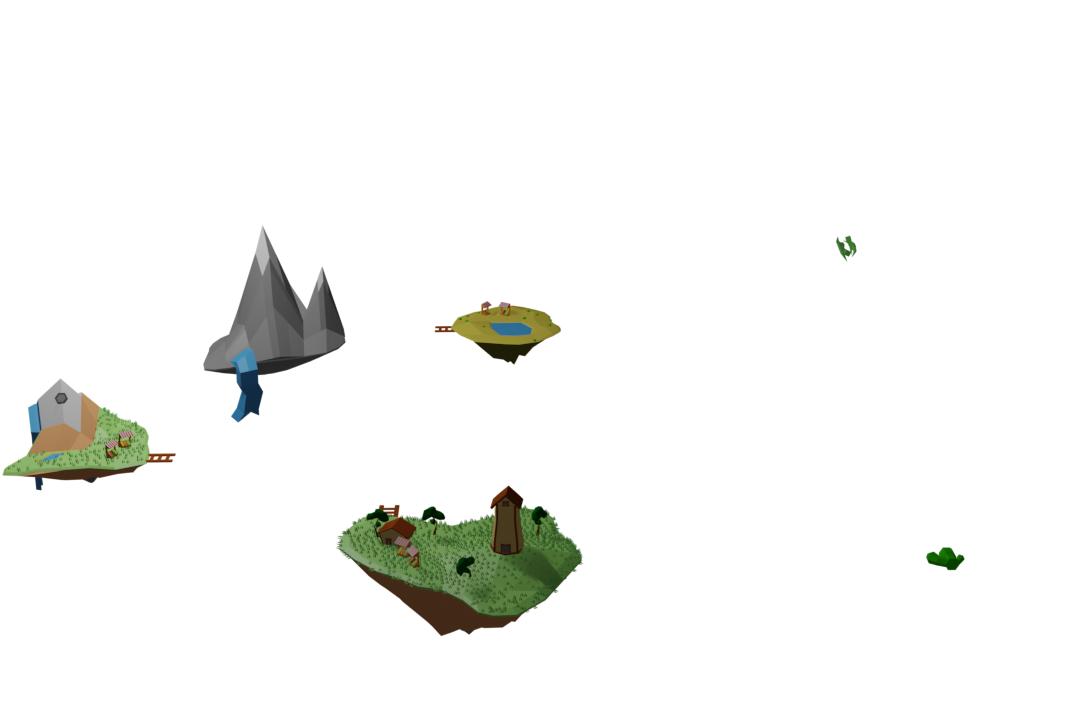
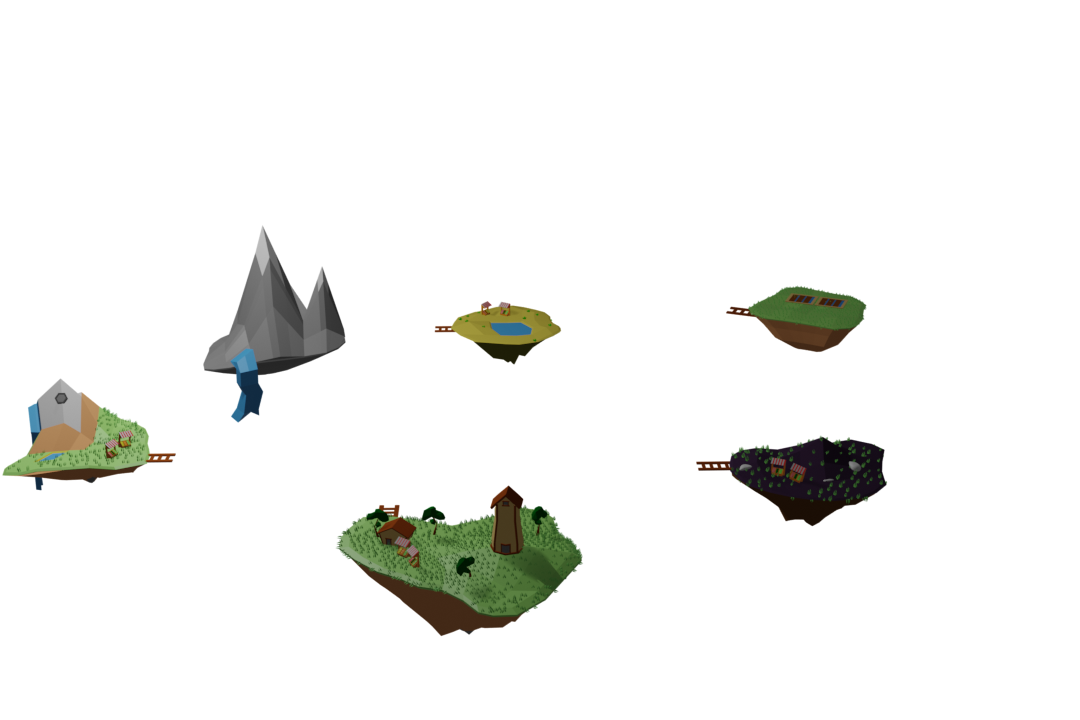
island and paths complete

diff --git a/Buckaneer/src/main/Path.java b/Buckaneer/src/main/Path.java
@@ -5,12 +5,27 @@ import java.util.Arrays;
 import java.util.Collections;
 
 public class Path {
-	private static int[] pathDataX01 = new int[] { 1, 1, 1, 1, 1, 1, 1, 1, 1, 1, 1, 1, 1, 1, 1, 1, 1, 1, 1, 1, 1, 1, 1, 1, 1, 1, 1, 1, 1, 1, 1, 1, 1, 1, 1, 1, 1, 1, 1, 1, 1, 1, 1, 1, 1, 1, 1, 1, 1, 0, 0, 0, 0, 0, 0, 0, 0, 0, -1, -1, -1, -1, -1, -1, -1, -1, -1, -1, -1, -1, 0, 0, 0, 0, -1, -1, -1, -1, -1, -1, -1, -1, -1, -1, -1, -1, -1, -1, -1, -1, -1, -1, -1, -1, -1, -1, -1, -1, -1, -1, -1, -1, -1, -1, -1, -1, -1, -1, -1, -1, -1, -1, -1, -1, -1, -1, -1, -1, -1, -1, -1, -1, -1, -1, -1, -1, -1, -1, -1, -1, -1, -1, -1, -1, -1, -1, -1, -1, -1, -1, 0, 0, 0, 0, 0, 0, 0, 0, 0, 0, -1, -1, -1, -1, 0, 0, 0, 0, 0, 0, 0, 0, 0, 0, 0, 0, 0, 0, 0, 0, 1, 0, 0, 0, 0, 0, 0, 0, 0, 0, 0, 0, 0, 0, 0, 0, 0, 0, 0, 0, 1, 1, 1, 1, 1, 0, 0, 0, 0, 0, 0, 0, 0, 0, 0, 0, 1, 1, 1, 1, 1, 1, 1, 1, 1, 1, 1, 1, 1, 0, 0, 0, 0, 0, 0, 1, 1, 1, 1, 1, 1, 1, 1, 1, 1, 1, 1, 0, 0, 0, 0, 0, 0, 0, 0, 0, 1, 1, 1, 1, 1, 1, 1, 1, 1, 1, 0, 0, 0, 0, 0, 0, 0, 0, 0, 0, 0, 1, 1, 1, 0, 0, 0, 0, 0, 0, 0, 0, 0, 0, 0, 0, 0, 0, 1, 0, 0, 0, 0, 0, 0, 0, 0, 0, 0, 0, 0, 0, 0, 0, -1, -1, -1, -1, 0, 0, 0, 0, 0, 0, 0, 0, 0, 0, 0, 0, 0, 0, 0, 0, 0, 0, 0, 0, 0, 0, 0, 0, 0, 0, 0, 0, 0, 0, 0, 0, 0, -1, 0, 0, 0, 0, 0, 0, 0, 0, 0, 0, 0, 0, 0, 0, 0, 0, 0, 0, 0, 0, 0, 0, 1, 1, 1, 1, 1, 1, 1, 1, 1, 1, 1, 1, 1, 1, 1, 1, 1, 1, 1, 1, 1, 1, 1, 1, 1, 1, 1, 1, 1, 1, 1, 1, 1, 1, 1, 1, 1, 1, 1, 1, 1, 1, 1, 1, 1, 1, 1, 1, 1, 1, 1, 1, 1, 1, 1, 1, 1, 1, 1, 1, 1, 1, 1, 1, 1, 1, 1, 1, 1, 1, 1, 1, 1, 1, 1, 1, 1, 1, 1, 1, 1, 1, 1, 1, 1, 1, 1, 1, 1, 1, 1, 1, 1, 1, 1, 1, 1, 1, 1, 1, 1, 1, 0, 0, 0, 0, 0, 0, 0, 0, 1, 1, 1, 1, 1, 1, 1, 1, 1, 1, 1, 1, 1, 1, 1, 1, 1, 1, 1, 1, 1, 1, 1, 1, 1, 1, 1, 1, 1, 1, 1, 1, 1, 1, 1, 1, 1, 1, 1, 1, 1, 1, 1, 1, 1, 1, 1, 1, 1, 1, 1, 1, 1, 1, 1, 1, 1, 1, 1, 1, 1, 1, 1, 1, 1, 1, 1, 1, 1, 1, 1, 1, 1, 1, 1, 1, 1, 1, 1, 1, 1, 1, 1, 1, 1, 1, 1, 1, 1, 1, 1, 1, 1, 1, 1, 1, 1, 1, 1, 1, 1, 1, 1, 1, 1, 1, 1, 1, 1, 1, 0, 0, 0, 0, -1, -1, -1, -1, 0, 0, 0, 0, 0, 0, 0, 0, 0, 0, 0, 0, 0, 0, -1, -1, -1, 0, 0, 0, 0, 0, 0, 0, 0, 0, 0, 0, 0, 0, 0, 0, 0, 0, 1, 1, 1, 1, 1, 1, 1, 1, 1, 1, 1, 1, 1, 1, 1, 1, 1, 1, 1, 1, 1, 0, 0, 0, 0, 0, 0, 0, 0, 0, 0, 0, 0, 0, 0, 0, 0, 0, 1, 1, 1, 1, 1, 1, 1, 1, 1, 1, 1, 1, 1, 1, 1, 1, 1, 1, 1, 1 };
-	private static int[] pathDataY01 = new int[] { 1, 1, 1, 0, 0, 0, 0, 0, 0, 0, 0, 0, 0, 0, 0, 0, 0, 0, 0, 1, 0, 0, 0, 0, 0, 0, 0, 0, 0, 0, 0, 0, 0, 0, 0, 0, -1, -1, -1, -1, -1, -1, -1, -1, -1, -1, -1, -1, -1, -1, -1, -1, -1, -1, -1, -1, -1, -1, -1, -1, -1, -1, -1, -1, -1, -1, -1, -1, -1, -1, -1, -1, -1, -1, -1, 0, 0, 0, 0, 0, 0, 0, 0, 0, 0, 0, 0, 0, 0, 0, 0, 0, 0, 0, 1, 0, 0, 0, 0, 0, 0, 0, 0, 0, 0, 0, 0, 0, 0, 0, 0, -1, -1, -1, -1, -1, -1, -1, -1, -1, -1, -1, -1, 0, 0, 0, 0, 0, 0, 0, 0, 0, 0, -1, -1, -1, -1, -1, -1, -1, -1, -1, -1, -1, -1, -1, -1, -1, -1, -1, -1, -1, -1, -1, -1, -1, -1, -1, -1, -1, -1, -1, -1, -1, -1, -1, -1, -1, -1, -1, -1, -1, -1, -1, -1, -1, -1, -1, -1, -1, -1, -1, -1, -1, -1, -1, -1, -1, -1, -1, -1, -1, -1, -1, -1, -1, -1, -1, -1, -1, -1, -1, -1, -1, -1, -1, -1, -1, -1, -1, -1, -1, -1, -1, -1, -1, -1, -1, -1, -1, -1, -1, -1, -1, -1, -1, -1, -1, -1, -1, -1, -1, -1, -1, -1, -1, -1, -1, -1, -1, -1, -1, -1, -1, -1, -1, -1, -1, -1, -1, -1, -1, -1, -1, -1, -1, -1, -1, -1, -1, -1, -1, -1, -1, -1, -1, -1, -1, -1, -1, -1, -1, -1, -1, -1, -1, -1, -1, -1, -1, -1, -1, -1, -1, -1, -1, -1, -1, -1, -1, -1, -1, -1, -1, -1, -1, -1, -1, -1, -1, -1, -1, -1, -1, -1, -1, -1, -1, -1, -1, -1, -1, -1, -1, -1, -1, -1, -1, -1, -1, -1, -1, -1, -1, -1, -1, -1, -1, -1, -1, -1, -1, -1, -1, -1, -1, -1, -1, -1, -1, -1, -1, -1, -1, -1, -1, -1, -1, -1, -1, -1, -1, -1, -1, -1, -1, -1, -1, -1, -1, -1, -1, -1, -1, -1, -1, -1, -1, -1, -1, -1, -1, -1, 0, 0, 0, 0, 0, 0, -1, -1, 0, 0, 0, 0, 0, 0, 0, 0, 0, 0, 0, 0, 0, 0, 0, 1, 0, 0, 0, 0, 0, 0, 0, 0, 0, 0, 0, 0, 0, 0, 0, 0, 0, 0, 0, 1, 1, 1, 1, 1, 1, 1, 1, 1, 1, 1, 1, 1, 1, 1, 1, 1, 1, 1, 1, 1, 1, 1, 1, 1, 1, 1, 1, 1, 1, 1, 1, 1, 1, 1, 1, 0, 0, 1, 1, 1, 1, 1, 1, 1, 1, 1, 1, 1, 1, 1, 1, 1, 1, 1, 1, 1, 1, 1, 1, 1, 1, 1, 1, 1, 1, 1, 1, 0, 1, 1, 1, 0, 0, 0, 0, 0, 0, 0, 0, 0, 0, 0, 0, 0, 0, 0, 0, 0, 0, 0, 0, -1, -1, -1, -1, -1, -1, 0, 0, 0, 0, 0, 0, 0, 0, 0, 0, 0, 0, 0, -1, 0, 0, 0, 0, 0, 0, 0, 0, 0, 0, 0, 0, 0, 0, 0, 0, 1, 1, 1, 1, 0, 0, 0, 0, 0, 0, 0, 0, 0, 0, 0, 0, 0, 0, 0, 0, 0, 0, 1, 1, 1, 1, 1, 1, 1, 1, 1, 1, 1, 1, 1, 1, 1, 1, 1, 1, 1, 1, 1, 1, 1, 1, 1, 1, 1, 1, 1, 1, 1, 1, 1, 1, 1, 1, 1, 1, 1, 1, 1, 1, 1, 1, 1, 1, 1, 1, 1, 1, 1, 1, 1, 1, 1, 1, 1, 1, 1, 1, 1, 1, 1, 1, 1, 1, 1, 1, 1, 1, 1, 1, 1, 1, 1, 1, 1, 1, 1, 1, 1, 1, 1, 1, 1, 1, 1, 1, 1, 1, 1, 1, 1, 1, -1, -1, 0, 0, 0, 0, 0, 0, 0, 0, 0, 0, 0, 0, 0, 0, 0, 0, 0, 0 };
-	private static int[] pathDataX12 = new int[] { -1, -1, -1, -1, -1, -1, -1, -1, -1, -1, -1, -1, -1, -1, -1, -1, -1, -1, -1, -1, -1, -1, -1, -1, -1, -1, -1, -1, -1, -1, -1, -1, -1, 0, 0, 0, 0, 0, 0, -1, 0, 0, 0, 0, 0, 0, 0, 0, 0, 0, 0, 0, 0, 0, 0, 0, 0, 0, 1, 1, 1, 0, 0, 0, 0, 0, 0, 0, 0, 0, 0, 0, 0, 0, 0, 0, 0, 0, 0, 0, 0, 0, 0, 0, 0, 0, 0, 0, 0, 0, 0, 0, 0, 0, 0, 0, 0, 0, -1, -1, 0, 0, 0, 0, 0, 0, 0, 0, 0, 0, 0, 0, 0, 0, 0, 0, -1, -1, -1, -1, 0, 0, 0, 0, 0, 0, 0, 0, 0, 0, 0, 0, 0, 0, 0, -1, 0, 0, 0, 0, 0, 0, 0, 0, 0, 0, 0, 0, 0, 0, 0, 0, 0, 0, 0, -1, -1, -1, -1, 0, 0, 0, 0, 0, 0, 0, 0, 0, 0, 0, 0, 0, 0 };
-	private static int[] pathDataY12 = new int[] {1, 1, 1, 1, 1, 1, 1, 1, 0, 0, 0, 0, 0, 0, 0, 0, 0, 0, 0, 0, 0, 1, 1, 1, 1, 1, 1, 1, 1, 1, 1, 1, 1, 1, 1, 1, 1, 1, 1, 1, 1, 1, 1, 1, 1, 1, 1, 1, 1, 1, 1, 1, 1, 1, 1, 1, 1, 1, 1, 1, 1, 1, 1, 1, 1, 1, 1, 1, 1, 1, 1, 1, 1, 1, 1, 1, 1, 1, 1, 1, 1, 1, 1, 1, 1, 1, 1, 1, 1, 1, 1, 1, 1, 1, 1, 1, 1, 1, 1, 1, 1, 1, 1, 1, 1, 1, 1, 1, 1, 1, 1, 1, 1, 1, 1, 1, 1, 1, 1, 1, 1, 1, 1, 1, 1, 1, 1, 1, 1, 1, 1, 1, 1, 1, 1, 1, 1, 1, 1, 1, 1, 1, 1, 1, 1, 1, 1, 1, 1, 1, 1, 1, 1, 1, 1, 1, 1, 1, 1, 1, 1, 1, 1, 1, 1, 1, 1, 1, 1, 1, 1, 1, 1 };
-	private static int[] pathDataX02 = new int[] {1, 1, 1, 1, 1, 1, 1, 1, 1, 1, 1, 1, 1, 1, 1, 1, 1, 1, 1, 1, 1, 1, 1, 1, 1, 1, 1, 1, 1, 1, 1, 1, 1, 1, 1, 1, 1, 1, 1, 1, 1, 1, 1, 1, 1, 1, 1, 1, 1, 1, 1, 1, 1, 1, 1, 1, 1, 1, 1, 1, 1, 1, 1, 1, 1, 1, 1, 1, 1, 1, 1, 1, 1, 1, 1, 1, 1, 1, 1, 1, 1, 1, 1, 1, 1, 1, 1, 1, 1, 1, 1, 1, 1, 1, 1, 1, 1, 1, 1, 1, 1, 1, 1, 1, 1, 1, 1, 1, 1, 1, 1, 1, 1, 1, 1, 1, 1, 1, 1, 1, 1, 1, 1, 1, 1, 1, 1, 1, 1, 1, 1, 1, 1, 1, 1, 1, 1, 1, 1, 1, 1, 1, 1, 1, 1, 1, 1, 1, 1, 1, 1, 1, 1, 1, 1, 1, 1, 1, 1, 1, 1, 1, 1, 1, 1, 1, 1, 1, 1, 1, 1, 1, 1, 1, 1, 1, 1, 1, 1, 1, 1, 1, 1, 1, 1, 1, 1, 1, 1, 1, 1, 1, 1, 1, 1, 1, 1, 1, 1, 1, 1, 0, 0, 0, 0, 0, 0, 0, 0, 1, 1, 1, 1, 1, 1, 1, 1, 1, 1 };
-	private static int[] pathDataY02 = new int[] {-1, -1, 0, 0, 0, 0, 0, 0, 0, 0, 0, 0, 0, 0, 0, 0, 0, 0, 0, 0, 0, 0, 0, 0, 0, 0, 0, 0, 0, 0, 0, 0, 0, 0, 0, 0, 0, 1, 0, 0, 0, 0, 0, 0, 0, 0, 0, 0, 0, 0, 0, 0, 0, 0, 0, 0, 0, 1, 0, 0, 0, 0, 0, 0, 0, 0, 0, 0, 0, 0, 0, 0, 0, 0, 0, 0, 0, 0, 0, 0, 0, 0, 0, 0, 0, 0, 0, 0, 0, 0, 0, 0, 0, 0, -1, -1, -1, -1, 0, 0, 0, 0, 0, 0, 0, 0, 0, 0, 0, 0, 0, 0, 0, 0, -1, 0, 0, 0, 0, 0, 0, 0, 0, 0, 0, 0, 0, 0, 0, 0, 0, 0, 0, 0, -1, -1, -1, 0, 0, 0, 0, 0, 0, 0, 0, 0, 0, 0, 0, 0, 0, 0, 1, 1, 0, 0, 0, 0, 0, 0, 0, 0, 0, 0, 0, 0, 0, 0, 0, 0, 0, 0, 1, 1, 1, 1, 1, 1, 1, 1, 1, 1, 1, 0, 0, 0, 0, 0, 0, 0, 0, 0, 1, 1, 1, 1, 1, 1, 1, 1, 1, 1, 1, 1, 1, 1, 1, 1, 1, 1, 1, 1, 1, 1, 1, 1, 1, 1, 0};
+	private static int[] pathDataX01 = new int[] {1, 1, 1, 1, 1, 1, 1, 1, 1, 1, 1, 1, 1, 1, 1, 1, 1, 1, 1, 1, 1, 1, 1, 1, 1, 1, 1, 1, 1, -1, -1, -1, -1, -1, -1, -1, -1, -1, -1, 0, 0, 0, 0, 0, 0, 0, 0, 0, 0, 0, 0, 0, 0, 0, 0, 0, 0, 0, 0, 0, 0, 0, 0, 0, 0, -1, -1, -1, -1, -1, -1, -1, -1, -1, -1, -1, -1, -1, -1, -1, -1, -1, -1, -1, -1, -1, -1, -1, -1, -1, -1, -1, -1, -1, -1, -1, -1, -1, -1, -1, -1, -1, -1, -1, -1, -1, -1, -1, -1, -1, -1, -1, -1, -1, -1, -1, -1, -1, -1, -1, -1, -1, -1, 0, 0, 0, 0, 1, 1, 1, 1, 1, 1, 0, 0, 0, 0, 0, 0, 0, 0, 0, 0, 0, 0, 0, 0, 0, 0, 0, 0, 0, 0, 1, 1, 1, 1, 1, 1, 1, 1, 1, 1, 1, 1, 1, 1, 1, 1, 1, 1, 1, 1, 1, 1, 1, 1, 1, 1, 1, 1, 1, 1, 1, 1, 1, 1, 1, 1, 1, 1, 1, 1, 1, 1, 1, 1, 1, 1, 1, 1, 1, 1, 1, 1, 1, 1, 1, 1, 1, 1, 1, 1, 1, 1, 1, 1, 1, 1, 1, 1, 1, 1, 1, 1, 1, 1, 1, 0, 0, 0, 0, 0, 0, 0, 0, 0, 0, 0, 0, 0, 0, 0, 0, 1, 1, 1, 0, 0, 0, 0, 0, 0, 0, 0, 0, 0, 0, 0, 0, 0, 0, 0, 0, 0, 0, 0, 0, 0, 0, 0, 0, 0, 0, 0, 0, 0, 1, 1, 0, 0, 0, 0, 0, 0, 0, 0, 0, 0, 0, 0, 0, 0, 0, 0, 0, 0, 0, 0, 0, 0, 0, 0, 0, 0, 0, 0, 0, 0, 0, 1, 1, 1, 1, 1, 1, 1, 1, 1, 1, 1, 1, 1, 1, 1, 1, 1, 1, 1, 1, 1, 1, 1, 1, 1, 1, 1, 1, 1, 1, 1, 1, 1, 1, 1, 1, 1, 1, 1, 1, 1, 1, 1, 1, 1, 1, 1, 1, 1, 1, 1, 1, 1, 1, 1, 1, 1, 1, 1, 1, 1, 1, 1, 1, 1, 1, 1, 1, 1, 1, 1, 1, 1, 1, 1, 1, 1, 1, 1, 1, 1, 1, 1, 1, 1, 1, 1, 1, 1, 1, 1, 1, 1, 1, 1, 1, 1, 1, 1, 1, 1, 1, 1, 1, 1, 1, 1, 1, 1, 1, 1, 1, 1, 1, 1, 1, 1, 1, 1, 1, 1, 1, 1, 1, 1, 1, 1, 1, 1, 1, 1, 1, 1, 1, 1, 1, 0, 0, 0, 0, 0, 0, 0, 0, 0, 0, 0, 0, 0, 0, 0, 0, 0, 0, 0, 0, 0, 1, 1, 1, 1, 1, 1, 1, 1, 0, 0, 0, 0, 0, 0, 0, 0, 0, 0, 0, 0, 0, 0, 0, 0, 0, 0, 0, 0, 0, 0, 0, 0, 0, 0, 0, 0, 0, 0, 0, 0, 0, 0, 0, 0, 0, 0, 0, 0, 0, 0, 0, 0, 0, 0, 0, 0, 0, 0, 0, 0, 0, 0, 0, 0, 0, 1, 1, 1, 1, 1, 1, 1, 1, 1, 1, 1, 1, 1, 1, 1, 1, 1, 1, 1, 1, 1, 1, 1, 1, 1, 1, 1, 1, 1, 1, 1, 1, 1, 1, 1, 1, 1, 1, 1, 1, 1, 1, 1, 1, 1, 1, 1, 1, 1, 1, 1, 1, 1, 1, 1, 1, 1, 1, 1, 1, 1, 1 };
+	private static int[] pathDataY01 = new int[] {-1, -1, -1, -1, -1, -1, -1, -1, -1, -1, -1, -1, -1, -1, -1, -1, -1, 0, 0, 0, 0, 0, 0, 0, 0, 0, 0, 0, 0, -1, -1, -1, -1, -1, -1, -1, -1, -1, -1, -1, -1, -1, -1, -1, -1, -1, -1, -1, -1, -1, -1, -1, -1, -1, -1, -1, -1, -1, -1, -1, -1, -1, -1, -1, -1, -1, -1, -1, -1, -1, 0, 0, 0, 0, 0, 0, 0, 0, 0, 0, 0, 0, 0, 0, 0, 0, 0, 0, 0, 0, 0, 0, 0, 0, -1, -1, -1, -1, -1, -1, -1, -1, -1, -1, -1, -1, -1, -1, -1, -1, -1, -1, -1, -1, -1, -1, -1, -1, -1, -1, -1, -1, -1, -1, -1, -1, -1, -1, -1, -1, -1, -1, -1, -1, -1, -1, -1, -1, -1, -1, -1, -1, -1, -1, -1, -1, -1, -1, -1, -1, -1, -1, -1, -1, -1, -1, -1, -1, -1, -1, -1, -1, -1, -1, -1, -1, -1, -1, -1, -1, 0, 0, 0, 0, 0, 0, 0, 0, 0, 0, 0, 0, 0, 0, 0, -1, -1, -1, -1, -1, -1, -1, -1, -1, -1, -1, 0, 0, 0, 0, 0, 0, 0, 0, 0, 0, 0, 0, 0, 0, 0, 0, 0, 0, 0, -1, -1, -1, -1, -1, -1, -1, -1, -1, -1, -1, -1, -1, -1, -1, -1, -1, -1, -1, -1, -1, -1, -1, -1, -1, -1, -1, -1, -1, -1, -1, -1, -1, -1, -1, -1, -1, -1, -1, -1, -1, -1, -1, -1, -1, -1, -1, -1, -1, -1, -1, -1, -1, -1, -1, -1, -1, -1, -1, -1, -1, -1, -1, -1, -1, -1, -1, -1, -1, -1, -1, -1, -1, -1, -1, -1, -1, -1, -1, -1, -1, -1, -1, -1, -1, -1, -1, -1, -1, -1, -1, -1, -1, -1, -1, -1, -1, -1, -1, -1, -1, -1, -1, -1, -1, -1, -1, -1, -1, -1, -1, -1, -1, -1, -1, -1, -1, -1, -1, -1, -1, -1, -1, 0, 0, 0, 0, 0, 0, 0, 0, 0, 0, 0, 0, 0, 0, 0, 0, 0, 0, 0, 0, 0, 0, 0, 0, 0, 0, 0, 0, 0, 0, 0, 0, 1, 1, 0, 0, 0, 0, 0, 0, 0, 0, 0, 0, 0, 0, 0, 0, 0, 0, 0, 0, 0, 0, 0, 0, 0, 0, 0, 0, 0, 0, 0, 0, 0, 1, 1, 1, 1, 1, 1, 1, 1, 1, 1, 1, 1, 1, 1, 1, 1, 1, 1, 0, 0, 0, 0, 0, 0, 0, 0, 0, 0, 0, 1, 1, 1, 1, 1, 1, 1, 1, 1, 1, 1, 1, 1, 1, 1, 1, 1, 1, 1, 1, 1, 1, 1, 1, 1, 1, 1, 1, 1, 1, 1, 1, 1, 1, 1, 1, 1, 1, 1, 1, 1, 1, 1, 1, 1, 1, 1, 1, 1, 1, 1, 1, 1, 1, 1, 1, 1, 1, 1, 1, 1, 1, 1, 1, 1, 1, 1, 1, 1, 1, 1, 1, 1, 1, 1, 1, 1, 1, 1, 1, 1, 1, 1, 1, 1, 1, 1, 1, 1, 1, 1, 1, 1, 1, 1, 1, 1, 1, 1, 1, 1, 1, 1, 1, 1, 1, 1, 1, 1, 1, 1, 1, 1, 1, 1, 1, 1, 1, 1, 1, 1, 1, 1, 1, 1, 0, 0, 0, 0, 0, 0, -1, -1, -1, -1, 0, 0, 0, 0, 0, 0, 0, 0, 0, 0, 0, 0, 0, 0, 0, 0, 0, 0, 0, 0, 0, 0, 0, 0, 0, 0, 0 };
+	private static int[] pathDataX02 = new int[] {1, 1, 1, 1, 1, 1, 1, 1, 1, 1, 1, 1, 1, 1, 1, 1, 1, 1, 1, 1, 1, 1, 1, 1, 1, 1, 1, 1, 1, 1, 1, 1, 1, 1, 1, 1, 1, 1, 1, 1, 1, 1, 1, 1, 1, 1, 1, 1, 1, 1, 1, 1, 1, 1, 1, 1, 1, 1, 1, 1, 1, 1, 1, 1, 1, 1, 1, 1, 1, 1, 1, 1, 1, 1, 1, 1, 1, 1, 1, 1, 1, 1, 1, 1, 1, 1, 1, 1, 1, 1, 1, 1, 1, 1, 1, 1, 1, 1, 1, 1, 1, 1, 1, 1, 1, 1, 1, 1, 1, 1, 1, 1, 1, 1, 1, 1, 1, 1, 1, 1, 1, 1, 1, 1, 1, 1, 1, 1, 1, 1, 1, 1, 1, 1, 1, 1, 1, 1, 1, 1, 1, 1, 1, 1, 1, 1, 1, 1, 1, 1, 1, 1, 1, 1, 1, 1, 1, 1, 1, 1, 1, 1, 1, 1, 1, 1, 1, 1, 1, 1, 1, 1, 1, 1, 1, 1, 1, 1, 1, 1, 1, 1, 1, 1, 1, 1, 1, 1, 1, 1, 1, 1, 1, 1, 1, 1, 1, 1, 1, 1, 1, 1, 1, 1, 1, 1, 1, 1, 1, 1, 1, 1, 1, 1, 1, 1, 1, 1, 0, 0, 0, 0, 0, 0, 0, 0, 0, 0, 0, 0, 0, 0, 0, 0, 0, 0, 0, 0, 0, 0, 0};
+	private static int[] pathDataY02 = new int[] {-1, -1, 0, 0, 0, 0, 0, 0, 0, 0, 0, 0, 0, 0, 0, 0, 0, 0, 0, 0, 0, 0, 0, 0, 0, 0, 0, 0, 0, 0, 0, 0, 0, 0, 0, 0, 0, 0, 0, 0, 0, 0, 0, 0, 0, 0, 0, 0, 0, 0, 0, 0, 0, 0, 0, 0, 0, 0, 0, 0, 0, -1, 0, 0, 0, 0, 0, 0, 0, 0, 0, 0, 0, 0, 0, 0, 0, 0, 0, 0, 0, 0, 0, 0, 0, 0, 0, 0, 0, 0, 0, 0, -1, 0, 0, 0, 0, 0, 0, 0, 0, 0, 0, 0, 0, 0, 0, 0, 0, 0, 0, 0, 0, 0, 0, 0, 0, 0, 0, 0, 0, 0, 0, 0, -1, 0, 0, 0, 0, 0, 0, 0, 0, 0, 0, 0, 0, 0, 0, 0, 0, 0, 0, 0, 0, 0, 0, 0, 0, 0, 0, 0, 0, 0, 0, 0, 0, 0, 0, -1, -1, -1, 0, 0, 0, 0, 0, 0, 0, 0, 0, 0, 0, 0, 0, 0, 0, 0, 0, 0, 0, 0, 0, 0, 1, 1, 1, 1, 1, 1, 1, 1, 1, 1, 1, 1, 1, 1, 1, 1, 1, 1, 1, 1, 1, 0, 0, 0, 0, 0, 0, 0, 0, 0, 0, 1, 1, 1, 1, 1, 1, 1, 1, 1, 1, 1, 1, 1, 1, 1, 1, 1, 1, 1, 1, 1, 1, 1, 1, 1, 1};
+	private static int[] pathDataX03 = new int[] {1, 1, 1, 1, 1, 1, 1, 1, 1, 1, 1, 1, 1, 1, 1, 1, 1, 1, 1, 1, 1, 1, 1, 1, 1, 1, 1, 1, 1, 1, 1, 1, 1, 1, 1, 1, 1, 1, 1, 1, 1, 1, 1, 1, 1, 1, 1, 1, 1, 1, 1, 1, 1, 1, 1, 1, 1, 1, 1, 1, 1, 1, 1, 1, 1, 1, 1, 1, 1, 1, 1, 1, 1, 1, 1, 1, 1, 1, 1, 1, 1, 1, 1, 1, 1, 1, 1, 1, 1, 1, 1, 1, 1, 1, 1, 1, 1, 1, 1, 1, 1, 1, 1, 1, 1, 1, 1, 1, 1, 1, 1, 1, 1, 1, 1, 1, 1, 1, 1, 1, 1, 1, 1, 1, 1, 1, 1, 1, 1, 1, 1, 1, 1, 1, 1, 1, 1, 1, 1, 1, 1, 1, 1, 1, 1, 1, 1, 1, 1, 1, 1, 1, 1, 1, 1, 1, 1, 1, 1, 1, 1, 1, 1, 1, 1, 1, 1, 1, 1, 1, 1, 1, 1, 1, 1, 1, 1, 1, 1, 1, 1, 1, 1, 1, 1, 1, 1, 1, 1, 1, 1, 1, 1, 1, 1, 1, 1, 1, 1, 1, 1, 1, 1, 1, 1, 1, 1, 1, 1, 1, 1, 1, 1, 1, 1, 1, 1, 1, 1, 1, 1, 1, 1, 1, 1, 1, 1, 1, 1, 1, 1, 1, 1, 1, 1, 1, 1, 1, 1, 1, 1, 1, 1, 1, 1, 1, 1, 1, 1, 1, 1, 1, 1, 1, 1, 1, 1, 1, 1, 1, 1, 1, 1, 1, 1, 1, 1, 1, 1, 1, 1, 1, 1, 1, 1, 1, 1, 1, 1, 1, 1, 1, 1, 1, 1, 1, 1, 1, 1, 1, 1, 1, 1, 1, 1, 1, 1, 1, 1, 1, 1, 1, 1, 1, 1, 1, 1, 1, 1, 1, 1, 1, 1, 1, 1, 1, 1, 1, 1, 1, 1, 1, 1, 1, 1, 1, 1, 1, 1, 1, 1, 1, 1, 1, 1, 1, 1, 1, 1, 1, 1, 1, 1, 1, 1, 1, 1, 1, 1, 1, 1, 1, 1, 1, 1, 1, 1, 1, 1, 1, 1, 1, 1, 1, 1, 1, 1, 1, 1, 1, 1, 1, 1, 1, 1, 1, 1, 1, 1, 1, 1, 1, 1, 1, 1, 1, 1, 1, 1, 1, 1, 1, 1, 1, 1, 1, 1, 1, 1, 1, 1, 1, 1, 1, 1, 1, 1, 1, 1, 1, 1, 1, 1, 1, 1, 1, 1, 1, 1, 1, 1, 1, 1, 1, 1, 1, 1, 1, 1, 1, 1, 1, 1, 1, 1, 1, 1, 1, 1, 1, 1, 1, 1, 1, 1, 1, 1, 1, 1, 1, 1, 1, 1, 1, 1, 1, 1, 1, 1, 1, 1, 1, 1, 1, 1, 1, 1, 1, 1, 1, 1, 1, 1, 1, 1, 1, 1, 1, 1, 1, 1, 1, 1, 1, 1, 1, 1, 1, 1, 1, 1, 1, 1, 1, 1, 1, 1, 1, 1, 1, 1, 1, 1, 1, 1, 1, 1, 1, 1, 1, 1, 1, 1, 1, 1, 0, 0, 0, 0, 0, 0, 0, 0, 0, 0, 0, 0, 0, 0, 0, 0, 0, 0, 0, 0, 0, 0, 0, 0, 0, 0, 0, 0, 0, 0, 0, 0, 0, 0, 0, 0, 0, 0, 0, 0, 0, 0, 0, 0, 0, 0, 1, 1, 0, 0, 0, 0, 0, 0, 0, 0, 0, 0, 0, 0, 0, 0, 0, 0, 0, 0, 0, 0, 0, 0, 0, 0, 0, 0, 0, 0, 0, 0, 0, 0, 0, 0, 0, 1, 1, 1, 1, 1, 1, 1, 1, 1, 1, 1, 1, 1, 1, 1, 1, 0, 0, 0, 0, 0, 0, 0, 0, 0, 1, 1, 1, 1, 1, 1, 1, 1, 1, 1, 1, 1, 1, 1, 1, 1, 1, 1, 1, 1, 1, 1, 1, 1, 1, 1, 1, 1, 1 };
+	private static int[] pathDataY03 = new int[] {0, 0, 0, 0, 0, 0, 0, 0, 0, 0, 0, 0, 0, 0, 0, 0, 0, 0, 0, 0, 0, 0, 0, 0, 0, 0, 0, 0, 0, 0, 0, 0, 0, 0, 0, 0, -1, -1, -1, -1, -1, -1, -1, -1, 0, 0, 0, 0, 0, 0, 0, 0, 0, 0, 0, 0, 0, 0, 0, 0, 0, 0, 1, 0, 0, 0, 0, 0, 0, 0, 0, 0, 0, 0, 0, 0, 0, 0, 0, 0, 0, 0, 0, 0, 0, 0, 0, 0, 0, 0, -1, -1, -1, -1, -1, 0, 0, 0, 0, 0, 0, 0, 0, 0, 0, 0, 0, 0, 0, 0, 0, 0, 0, 0, 0, 0, 0, 0, 0, 0, 0, 0, 0, 1, 0, 0, 0, 0, 0, 0, 0, 0, 0, 0, 0, 0, 0, 0, 0, 0, 0, 0, 0, 0, 0, 0, 0, 0, 0, 0, 0, 0, 0, 0, 0, 0, 0, 0, 0, 0, 0, 0, 0, 0, 0, 0, 0, 0, 0, 0, 0, 0, 0, 0, 0, 0, 0, 0, 0, 0, 0, 0, 0, 0, 0, 0, 0, 0, 0, 0, 0, 0, -1, -1, 0, 0, 0, 0, 0, 0, 0, 0, 0, 0, 0, 0, 0, 0, 0, 0, 0, 0, 0, 0, 0, 0, 0, 0, 0, 0, 0, 0, 0, 0, 0, 0, 0, 0, 0, 0, 0, 0, 0, 0, 0, 0, 0, 0, 0, 0, 0, 0, 0, 0, 0, 0, 0, 0, 0, 1, 0, 0, 0, 0, 0, 0, 0, 0, 0, 0, 0, 0, 0, 0, 0, 0, 0, 0, 0, 0, 0, 0, 0, 0, 0, 0, 0, 0, -1, 0, 0, 0, 0, 0, 0, 0, 0, 0, 0, 0, 0, 0, 0, 0, 0, 0, 0, 0, 0, 0, 0, 0, 0, 0, 0, 0, 0, -1, -1, -1, -1, -1, -1, 0, 0, 0, 0, 0, 0, 0, 0, 0, 0, 0, 0, 0, 0, 0, 0, 0, 0, 0, 0, 0, 0, 0, 0, 0, 0, 0, 0, 0, 0, 0, 0, 0, 0, 0, 0, 0, 0, 0, 0, 0, 0, 0, 0, 0, 0, 0, 0, 0, 0, 0, 0, 0, 0, 0, 0, 0, 0, 0, 1, 1, 1, 0, 0, 0, 0, 0, 0, 0, 0, 0, 0, 0, 0, 0, 0, 0, 0, 0, 0, 0, 0, 0, 0, 0, 0, 0, 0, 0, -1, -1, 0, 0, 0, 0, 0, 0, 0, 0, 0, 0, 0, 0, 0, 0, 0, 0, 0, 0, 0, 0, 0, 0, 0, 0, 0, 0, 0, 0, 0, 0, 0, -1, 0, 0, 0, 0, 0, 0, 0, 0, 0, 0, 0, 0, 0, 0, 0, 0, 0, 0, 0, 0, 0, 0, 0, 0, 0, 0, 0, 0, 0, -1, -1, -1, -1, -1, -1, -1, -1, 0, 0, 0, 0, 0, 0, 0, 0, 0, 0, 0, 0, 0, 0, 0, 0, 0, 0, 0, 0, 0, 0, 0, 0, 0, 0, -1, -1, -1, -1, -1, -1, -1, -1, -1, -1, -1, -1, -1, -1, -1, -1, -1, -1, -1, -1, -1, -1, -1, -1, -1, -1, -1, -1, -1, -1, -1, -1, -1, -1, -1, -1, -1, -1, -1, -1, -1, -1, -1, -1, -1, -1, -1, -1, -1, -1, -1, -1, -1, -1, -1, -1, -1, -1, -1, -1, -1, -1, -1, -1, -1, -1, -1, -1, -1, -1, -1, -1, -1, -1, -1, -1, -1, -1, -1, -1, -1, -1, -1, -1, -1, -1, -1, -1, -1, -1, -1, -1, -1, -1, -1, -1, -1, -1, -1, -1, -1, -1, -1, -1, -1, -1, -1, -1, -1, -1, -1, -1, -1, -1, -1, -1, -1, -1, -1, -1, -1, -1, -1, -1, -1, -1, -1, -1, -1, -1, 0, 0, 0, 0, 0, 0, 0, 0, 0, 0, 0, 0, 0, 0, 0, 0, 0, 0, 0, 0, 0, 0, 0};
+	private static int[] pathDataX04 = new int[] {1, 1, 1, 1, 1, 1, 1, 1, 1, 1, 1, 1, 1, 1, 1, 1, 1, 1, 1, 1, 1, 1, 1, 1, 1, 1, 1, 1, 1, 1, 1, 1, 1, 1, 1, 1, 1, 1, 1, 1, 1, 1, 1, 1, 1, 1, 1, 1, 1, 1, 1, 1, 1, 1, 1, 1, 1, 1, 1, 1, 1, 1, 1, 1, 1, 1, 1, 1, 1, 1, 1, 1, 1, 1, 1, 1, 1, 1, 1, 1, 1, 1, 1, 1, 1, 1, 1, 1, 1, 1, 1, 1, 1, 1, 1, 1, 1, 1, 1, 1, 1, 1, 1, 1, 1, 1, 1, 1, 1, 1, 1, 1, 1, 1, 1, 1, 1, 1, 1, 1, 1, 1, 1, 1, 1, 1, 1, 1, 1, 1, 1, 1, 1, 1, 1, 1, 1, 1, 1, 1, 1, 1, 1, 1, 1, 1, 1, 1, 1, 1, 1, 1, 1, 1, 1, 1, 1, 1, 1, 1, 1, 1, 1, 1, 1, 1, 1, 1, 1, 1, 1, 1, 1, 1, 1, 1, 1, 1, 1, 1, 1, 1, 1, 1, 1, 1, 1, 1, 1, 1, 1, 1, 1, 1, 1, 1, 1, 1, 1, 1, 1, 1, 1, 1, 1, 1, 1, 1, 1, 1, 1, 1, 1, 1, 1, 1, 1, 1, 1, 1, 1, 1, 1, 1, 1, 1, 1, 1, 1, 1, 1, 1, 1, 1, 1, 1, 1, 1, 1, 1, 1, 1, 1, 1, 1, 1, 1, 1, 1, 1, 1, 1, 1, 1, 1, 1, 1, 1, 1, 1, 1, 1, 1, 1, 1, 1, 1, 1, 1, 1, 1, 1, 1, 1, 1, 1, 1, 1, 1, 1, 1, 1, 1, 1, 1, 1, 1, 1, 1, 1, 1, 1, 1, 1, 1, 1, 1, 1, 1, 1, 1, 1, 1, 1, 1, 1, 1, 1, 1, 1, 1, 1, 1, 1, 1, 1, 1, 1, 1, 1, 1, 1, 1, 1, 1, 1, 1, 1, 1, 1, 1, 1, 1, 1, 1, 1, 1, 1, 1, 1, 1, 1, 1, 1, 1, 1, 1, 1, 1, 1, 1, 1, 1, 1, 1, 1, 1, 1, 1, 1, 1, 1, 1, 1, 1, 1, 1, 1, 1, 1, 1, 1, 1, 1, 1, 1, 1, 1, 1, 1, 1, 1, 1, 1, 1, 1, 1, 1, 1, 1, 1, 1, 1, 1, 1, 1, 1, 1, 1, 1, 1, 1, 1, 1, 1, 1, 1, 1, 1, 1, 1, 1, 1, 1, 1, 1, 1, 1, 1, 1, 1, 1, 1, 1, 1, 1, 1, 1, 1, 1, 1, 1, 1, 1, 1, 1, 1, 1, 1, 1, 1, 1, 1, 1, 1, 1, 1, 1, 1, 1, 1, 1, 1, 1, 1, 1, 1, 1, 1, 1, 1, 1, 1, 1, 1, 1, 1, 1, 1, 1, 1, 1, 1, 1, 1, 1, 1, 1, 1, 1, 1, 1, 1, 1, 1, 1, 1, 1, 1, 1, 1, 1, 1, 1, 1, 1, 1, 1, 1, 1, 1, 1, 1, 1, 1, 1, 1, 1, 1, 1, 1, 1, 1, 1, 1, 1, 1, 1, 1, 1, 1, 1, 1, 1 };
+	private static int[] pathDataY04 = new int[] {-1, 0, 0, 0, 0, 0, 0, 0, 0, 0, 0, 0, 0, 0, 0, 0, 0, 0, 0, 0, 0, 0, 0, 0, 0, 0, 0, 0, 0, 0, 0, -1, -1, -1, -1, -1, -1, 0, 0, 0, 0, 0, 0, 0, 0, 0, 0, 0, 0, 0, 0, 0, 0, 0, 0, 0, 0, 0, 0, 0, 0, -1, -1, -1, -1, -1, -1, 0, 0, 0, 0, 0, 0, 0, 0, 0, 0, 0, 0, 0, 0, 0, 0, 0, 0, 0, 0, 0, 0, 0, 0, 0, 0, 0, 1, 1, 1, 0, 0, 0, 0, 0, 0, 0, 0, 0, 0, 0, 0, 0, 0, 0, 0, 0, 0, 0, 0, 0, 0, 0, 0, 0, 1, 0, 0, 0, 0, 0, 0, 0, 0, 0, 0, 0, 0, 0, 0, 0, 0, 0, 0, 0, 0, 0, 0, 0, 0, 0, 0, 0, 0, 0, 0, 0, 0, -1, -1, -1, 0, 0, 0, 0, 0, 0, 0, 0, 0, 0, 0, 0, 0, 0, 0, 0, 0, 0, 0, 0, 0, 0, 0, 0, 0, 0, 0, 0, 0, 0, 0, 0, 0, 0, 0, 0, 0, 0, 0, 0, 0, 0, 0, 0, 0, 0, 0, 0, 0, 0, 0, 0, -1, -1, -1, -1, -1, 0, 0, 0, 0, 0, 0, 0, 0, 0, 0, 0, 0, 0, 0, 0, 0, 0, 0, 0, 0, 0, 0, 0, 0, 0, 0, 0, 0, 0, 0, 0, 0, 0, 0, 1, 1, 0, 0, 0, 0, 0, 0, 0, 0, 0, 0, 0, 0, 0, 0, 0, 0, 0, 0, 0, 0, 0, 0, 0, 0, 0, 0, 0, 0, 0, 0, 0, 0, 0, 0, 0, 0, 0, 0, 0, 0, 0, 0, 0, 0, 0, 0, 0, 0, 0, 0, 0, 0, 0, 0, 0, 1, 1, 1, 1, 0, 0, 0, 0, 0, 0, 0, 0, 0, 0, 0, 0, 0, 0, 0, 0, 0, 0, 0, 0, 0, 0, 0, 0, 0, 0, 0, 0, 0, 0, 0, 0, 0, 0, 0, 0, 0, 0, 0, 0, 0, 0, 0, 0, 0, 0, 0, 0, 0, 0, 0, 0, 0, 0, 0, 0, 0, 0, 0, 0, 0, 0, -1, -1, -1, -1, 0, 0, 0, 0, 0, 0, 0, 0, 0, 0, 0, 0, 0, 0, 0, 0, 0, 0, 0, 0, -1, -1, -1, -1, 0, 0, 0, 0, 0, 0, 0, 0, 0, 0, 0, 0, 0, 0, 0, 0, 0, 0, 0, 0, 0, 0, 0, 0, 0, 0, 0, 0, 0, 0, 0, 0, 0, 0, 0, 0, 0, 0, 0, 1, 1, 0, 0, 0, 0, 0, 0, 0, 0, 0, 0, 0, 0, 0, 0, 0, 0, 0, 0, 0, 0, 0, 0, 0, 0, 0, 1, 1, 1, 1, 1, 1, 1, 1, 1, 1, 1, 1, 1, 1, 1, 1, 1, 1, 1, 0, 0, 0, 0, 0, 0, 0, 0, 0, 0, 0, 0, 0, 0, 0, 0, 0, 0, 0, 0, 0, 0, 0, 0, 0, 0, 0, 0, 0, 0, 0, 0, 0, 0, 0, 0, 0, 0, 0 };
+	private static int[] pathDataX12 = new int[] {-1, -1, -1, -1, -1, -1, -1, -1, -1, -1, -1, -1, -1, -1, -1, -1, -1, -1, -1, -1, -1, -1, -1, -1, -1, -1, -1, -1, -1, -1, -1, -1, -1, -1, -1, -1, -1, -1, -1, -1, -1, -1, -1, -1, -1, -1, -1, -1, 0, 0, 0, 0, 0, 0, 0, 0, 1, 0, 0, 0, 0, 0, 0, 0, 0, 0, 0, 0, 0, 0, 0, 0, 0, 0, 0, 0, 0, 0, 0, 0, 0, 0, 0, 0, 0, 0, 0, 1, 1, 1, 1, 1, 0, 0, 0, 0, 0, 0, 0, 0, 0, 0, 0, 0, 0, 0, 0, 0, 0, 0, 0, 0, 0, 0, 0, 0, 0, 0, 0, 1, 1, 1, 1, 0, 0, 0, 0, 0, 0, 0, 0, 0, 0, 0, 0, 0, 0, 0, 0, 0, 0, 0, 0, 0, 0, 0, 0, 0, 0, -1, -1, 0, 0, 0, 0, 0, 0, 0, 0, 0, 0, 0, 0, 0, 0, 0, 0, 0, 0, 0, 0, 0, 0, 0, 0, 0, 0, 0, 0, 0, 0, 0, 0, 0, 0, 0, 0, 0, 0};
+	private static int[] pathDataY12 = new int[] {1, 1, 1, 0, 0, 0, 0, 0, 0, 0, 0, 0, 0, 0, 0, 0, 0, 0, 0, 0, 0, 0, 0, 0, 0, 0, 1, 1, 1, 1, 1, 1, 1, 1, 1, 1, 1, 1, 1, 1, 1, 1, 1, 1, 1, 1, 1, 1, 1, 1, 1, 1, 1, 1, 1, 1, 1, 1, 1, 1, 1, 1, 1, 1, 1, 1, 1, 1, 1, 1, 1, 1, 1, 1, 1, 1, 1, 1, 1, 1, 1, 1, 1, 1, 1, 1, 1, 1, 1, 1, 1, 1, 1, 1, 1, 1, 1, 1, 1, 1, 1, 1, 1, 1, 1, 1, 1, 1, 1, 1, 1, 1, 1, 1, 1, 1, 1, 1, 1, 1, 1, 1, 1, 1, 1, 1, 1, 1, 1, 1, 1, 1, 1, 1, 1, 1, 1, 1, 1, 1, 1, 1, 1, 1, 1, 1, 1, 1, 1, 1, 1, 1, 1, 1, 1, 1, 1, 1, 1, 1, 1, 1, 1, 1, 1, 1, 1, 1, 1, 1, 1, 1, 1, 1, 1, 1, 1, 1, 1, 1, 1, 1, 1, 1, 1, 1, 1, 1, 1};
+	private static int[] pathDataX13 = new int[] {-1, -1, -1, -1, -1, -1, -1, -1, -1, -1, -1, -1, -1, -1, -1, -1, -1, -1, -1, -1, -1, -1, -1, -1, -1, -1, -1, -1, -1, -1, -1, -1, -1, -1, -1, -1, 0, 0, 0, 0, 0, 0, 0, 0, 0, 0, 0, 0, 0, 0, 0, 0, 0, 0, 0, 1, 1, 1, 1, 1, 1, 1, 1, 1, 1, 1, 1, 1, 1, 1, 1, 1, 1, 0, 0, 0, 0, 0, 0, 0, 0, 0, 0, 0, 0, 0, 0, 1, 1, 1, 1, 1, 1, 1, 1, 1, 1, 1, 1, 1, 1, 1, 1, 1, 1, 1, 1, 1, 1, 1, 1, 1, 1, 1, 1, 1, 1, 1, 1, 1, 1, 1, 1, 1, 1, 1, 1, 1, 1, 1, 1, 1, 1, 1, 1, 1, 1, 1, 1, 1, 1, 1, 1, 1, 1, 1, 1, 1, 1, 1, 1, 1, 1, 1, 1, 1, 1, 1, 1, 1, 1, 1, 1, 1, 1, 1, 1, 1, 1, 1, 1, 1, 1, 1, 1, 1, 1, 1, 1, 1, 1, 1, 1, 1, 1, 1, 1, 1, 1, 1, 1, 1, 1, 1, 1, 1, 1, 1, 1, 1, 1, 1, 1, 1, 1, 1, 1, 1, 1, 1, 1, 1, 1, 1, 1, 1, 1, 1, 1, 1, 1, 1, 1, 1, 1, 1, 1, 1, 1, 1, 1, 1, 1, 1, 1, 1, 1, 1, 1, 1, 1, 1, 1, 1, 1, 1, 1, 1, 1, 1, 1, 1, 1, 1, 1, 1, 1, 1, 1, 1, 1, 1, 1, 1, 1, 1, 1, 1, 1, 1, 1, 1, 1, 1, 1, 1, 1, 1, 1, 1, 1, 1, 1, 1, 1, 1, 1, 1, 1, 1, 1, 1, 1, 1, 1, 1, 1, 1, 1, 1, 1, 1, 1, 1, 1, 1, 1, 0, 0, 0, 0, 0, 0, 1, 1, 1, 1, 1, 1, 1, 1, 1, 1, 1, 0, 0, 0, 0, 0, 0, 0, 0, 0, 0, 0, 0, 0, 0, 0, 0, 0, 0, 0, 0, 0, 0, 1, 1, 1, 1, 1, 1, 1, 1, 1, 1, 1, 1, 1, 1, 1, 1, 1, 1, 1, 1, 1, 1, 1, 1, 1, 1, 1, 1, 1, 1, 1, 1, 1, 1, 1, 1, 1, 1, 1, 1, 1, 1, 1, 1, 1, 1, 1, 1, 1, 1, 1, 1, 1, 1, 1, 1, 1, 1, 1, 1, 1, 1, 1, 1, 1, 1, 1, 1, 1, 1, 1, 1, 1, 1, 1, 1, 1, 1, 1, 1, 1, 1, 1, 1, 1, 1, 1, 1, 1, 1, 1};
+	private static int[] pathDataY13 = new int[] {-1, -1, -1, -1, -1, -1, -1, -1, -1, -1, -1, 0, 0, 0, 0, 0, 0, 0, 0, 0, 0, 0, 0, 0, 0, 0, 0, -1, -1, -1, -1, -1, -1, -1, -1, -1, -1, -1, -1, -1, -1, -1, -1, -1, -1, -1, -1, -1, -1, -1, -1, -1, -1, -1, -1, -1, -1, -1, -1, -1, -1, -1, -1, -1, -1, -1, -1, -1, -1, -1, -1, -1, -1, -1, -1, -1, -1, -1, -1, -1, -1, -1, -1, -1, -1, -1, -1, -1, -1, -1, -1, -1, -1, -1, -1, -1, -1, -1, 0, 0, 0, 0, 0, 0, 0, 0, 0, 0, 0, 0, 0, 0, 0, 0, 0, 0, 1, 1, 1, 1, 0, 0, 0, 0, 0, 0, 0, 0, 0, 0, 0, 0, 0, 0, 0, 0, 0, 0, 0, 0, 0, 0, 0, 0, 0, 0, 0, 0, 0, 0, 0, 0, 0, -1, -1, -1, 0, 0, 0, 0, 0, 0, 0, 0, 0, 0, 0, 0, 0, 0, 0, 0, 0, 0, 0, 0, 0, 0, 0, 0, 0, 0, 0, 0, 1, 1, 1, 0, 0, 0, 0, 0, 0, 0, 0, 0, 0, 0, 0, 0, 0, 0, 0, 0, 0, 0, 0, 0, 0, 0, -1, 0, 0, 0, 0, 0, 0, 0, 0, 0, 0, 0, 0, 0, 0, 0, 0, 0, 0, 0, 0, 0, 0, 0, 0, 0, 0, 0, 0, -1, 0, 0, 0, 0, 0, 0, 0, 0, 0, 0, 0, 0, 0, 0, 0, 0, 0, 0, 0, 0, 0, 0, 0, 0, 0, 0, 0, 0, 0, 0, 0, 0, 0, 0, 0, 0, 0, 0, 0, 1, 1, 1, 1, 1, 1, 1, 1, 1, 1, 1, 1, 1, 1, 1, 1, 1, 1, 1, 1, 1, 1, 1, 1, 1, 1, 1, 1, 1, 1, 1, 1, 1, 1, 1, 1, 1, 1, 1, 1, 1, 1, 1, 1, 1, 1, 1, 1, 1, 1, 1, 1, 1, 1, 1, 1, 1, 1, 1, 1, 1, 1, 1, 1, 1, 1, 1, -1, -1, -1, -1, -1, 0, 0, 0, 0, 0, 0, 0, 0, 0, 0, 0, 0, 0, 0, 0, 0, 0, 0, 0, 0, 0, 0, 0, 0, 0, 0, 1, 1, 1, 1, 1, 0, 0, 0, 0, 0, 0, 0, 0, 0, 0, 0, 0, 0, 0, 0, 0, 0, 0, 0, -1, -1, -1, -1, -1, -1, -1, -1, -1, -1, -1, -1, -1, -1, -1, -1, -1, 0, 0, 0, 0, 0, 0, 0, 0, 0, 0, 0, 0, 0, 0, 0, 0, 0, 0, 0};
+	private static int[] pathDataX14 = new int[] {-1, -1, -1, -1, -1, -1, -1, -1, -1, -1, -1, -1, -1, -1, -1, -1, -1, -1, -1, -1, -1, -1, -1, -1, -1, -1, -1, -1, -1, -1, -1, -1, -1, -1, -1, 0, 0, 0, 0, 0, 0, 0, 0, 0, 0, 0, 0, 0, 0, 0, 0, 0, 0, 0, 0, 0, 0, 0, 0, 0, 0, 0, 0, 0, 0, 0, 0, 0, 0, 0, 0, 0, 0, 0, 0, 0, 0, 0, 0, 0, 0, 0, 0, 0, 0, 0, 0, 0, 0, 0, 0, 0, 1, 1, 1, 1, 1, 1, 1, 1, 0, 0, 0, 0, 0, 0, 0, 0, 0, 0, 0, 0, 0, 0, 0, 0, 0, 0, 0, 0, 0, 0, 1, 1, 1, 1, 1, 1, 1, 1, 1, 1, 1, 1, 1, 1, 1, 1, 1, 1, 1, 1, 1, 1, 1, 1, 1, 1, 1, 1, 1, 0, 0, 0, 1, 1, 1, 1, 1, 1, 1, 1, 1, 1, 1, 1, 1, 1, 1, 1, 1, 1, 1, 1, 1, 1, 1, 1, 1, 1, 1, 1, 1, 1, 1, 1, 1, 1, 1, 1, 1, 1, 1, 1, 1, 1, 1, 1, 1, 1, 1, 1, 1, 1, 1, 1, 1, 1, 1, 1, 1, 1, 1, 1, 1, 1, 1, 1, 1, 1, 1, 1, 1, 1, 1, 1, 1, 1, 1, 1, 1, 1, 1, 1, 1, 1, 1, 1, 1, 1, 1, 1, 1, 1, 1, 1, 1, 1, 1, 1, 1, 1, 1, 1, 1, 1, 1, 1, 1, 1, 1, 1, 1, 1, 1, 1, 1, 1, 1, 1, 1, 1, 1, 1, 1, 1, 1, 1, 1, 1, 1, 1, 1, 1, 1, 1, 1, 1, 1, 1, 1, 1, 1, 1, 1, 1, 1, 1, 1, 1, 1, 1, 1, 1, 1, 1, 1, 1, 1, 1, 1, 1, 1, 1, 1, 1, 1, 1, 1, 1, 1, 1, 1, 1, 1, 1, 1, 1, 1, 1, 1, 1, 1, 1, 1, 1, 1, 1, 1, 1, 1, 1, 1, 1, 1, 1, 1, 1, 1, 1, 1, 1, 1, 1, 1, 1, 1, 1, 1, 1, 1, 1, 1, 1, 1, 1, 1, 1, 1, 1, 1, 1, 1, 1, 1, 1, 1, 1, 1, 1, 1, 1, 1, 1, 1, 1, 1, 1, 1, 1, 1, 1, 1, 1, 1, 1, 1, 1, 1, 1, 1, 1, 1, 1, 1, 1, 1, 1, 1, 1, 1, 1, 1, 1, 1, 1, 1, 1};
+	private static int[] pathDataY14 = new int[] {1, 1, 1, 1, 1, 1, 1, 1, 0, 0, 0, 0, 0, 0, 0, 0, 0, 0, 0, 0, 0, 0, 0, 0, 0, 0, 0, 0, 1, 1, 1, 1, 1, 1, 1, 1, 1, 1, 1, 1, 1, 1, 1, 1, 1, 1, 1, 1, 1, 1, 1, 1, 1, 1, 1, 1, 1, 1, 1, 1, 1, 1, 1, 1, 1, 1, 1, 1, 1, 1, 1, 1, 1, 1, 1, 1, 1, 1, 1, 1, 1, 1, 1, 1, 1, 1, 1, 1, 1, 1, 1, 1, 1, 1, 1, 1, 1, 1, 1, 1, 1, 1, 1, 1, 1, 1, 1, 1, 1, 1, 1, 1, 1, 1, 1, 1, 1, 1, 1, 1, 1, 1, 1, 1, 1, 1, 1, 1, 1, 1, 1, 1, 1, 1, 1, 1, 1, 1, 1, 1, 1, 1, 1, 1, 1, 1, 1, 1, 1, 1, 1, 1, 1, 1, -1, -1, -1, -1, -1, -1, 0, 0, 0, 0, 0, 0, 0, 0, 0, 0, 0, 0, 0, 0, 0, 0, 0, 0, 0, 0, 0, 0, 0, 0, 0, 0, 0, 1, 1, 1, 1, 0, 0, 0, 0, 0, 0, 0, 0, 0, 0, 0, 0, 0, 0, 0, 0, 0, 0, 0, 0, 0, 0, 0, 0, 0, 0, 1, 1, 1, 1, 1, 1, 0, 0, 0, 0, 0, 0, 0, 0, 0, 0, 0, 0, 0, 0, 0, 0, 0, 0, 0, 0, 0, 0, 0, 0, 0, 0, 0, 0, 1, 0, 0, 0, 0, 0, 0, 0, 0, 0, 0, 0, 0, 0, 0, 0, 0, 0, 0, 0, 0, 0, 0, 0, 0, 0, 0, -1, -1, 0, 0, 0, 0, 0, 0, 0, 0, 0, 0, 0, 0, 0, 0, 0, 0, 0, 0, 0, 0, 0, 0, 0, 0, 0, 0, 0, 0, 0, 0, 0, 0, 0, 0, 0, 0, 0, 0, 0, 0, 0, 0, 0, 0, 0, 0, 0, 0, 0, 0, 0, 0, 0, 0, 0, 0, 0, 0, 0, -1, -1, -1, -1, -1, -1, -1, -1, 0, 0, 0, 0, 0, 0, 0, 0, 0, 0, 0, 0, 0, 0, 0, 0, 0, 0, 0, 0, 0, 0, 0, 0, 0, 0, 0, 0, 0, 0, 0, 0, 0, 0, 0, 0, 0, 0, 0, 0, 0, 0, 0, 0, 0, 0, 0, 0, 0, 0, 0, 0, 0, 0, 0, 0, 0, 0, 0, 0, 0, 0, 0, 0, 0, 0, 0, 0, 0, 0, 0};
+	private static int[] pathDataX23 = new int[] {1, 0, 0, 0, 0, 0, 0, 0, 0, 0, 0, 0, 0, 0, 0, 0, 1, 1, 1, 1, 1, 1, 1, 0, 0, 0, 0, 0, 0, 0, 0, 0, 0, 0, 0, 0, 0, 0, 0, 0, 0, 0, 0, 0, 0, 1, 1, 1, 1, 1, 1, 1, 1, 1, 1, 1, 1, 1, 1, 1, 1, 1, 1, 1, 1, 1, 1, 1, 1, 1, 1, 1, 1, 1, 1, 1, 1, 1, 1, 1, 1, 1, 1, 1, 1, 1, 1, 1, 1, 1, 1, 1, 1, 1, 1, 1, 1, 1, 1, 1, 1, 1, 1, 1, 1, 1, 1, 1, 1, 1, 1, 1, 1, 1, 1, 1, 1, 1, 1, 1, 1, 1, 1, 1, 1, 1, 1, 1, 1, 1, 1, 1, 1, 1, 1, 1, 1, 1, 1, 1, 1, 1, 1, 1, 1, 1, 1, 1, 1, 1, 1, 1, 1, 1, 1, 1, 1, 1, 1, 1, 1, 1, 1, 1, 1, 1, 1, 1, 1, 1, 1, 1, 1, 1, 1, 1, 1, 1, 1, 1, 1, 1, 1, 1, 1, 1, 1, 1, 1, 1, 1, 1, 1, 1, 1, 1, 1, 1, 1, 1, 1, 1, 1, 1, 1, 1, 1, 1, 1, 1, 1, 1, 1, 1, 1, 1, 1, 1, 1, 1, 1, 1, 1, 1, 1, 1, 1, 1, 1, 1, 1, 1, 1, 1, 1, 1, 1, 1, 1, 1, 1, 1, 1, 1, 1, 1, 1, 1, 1, 1, 1, 1, 1, 1, 1, 1, 1, 1, 1, 1, 1, 1, 1, 1, 1, 1, 1, 1, 1, 1, 1, 1, 1, 1, 1, 1, 1, 1, 1, 1, 1, 1, 1, 1, 1, 1, 1, 1, 1, 1, 0, 1, 1, 1, 0, 0, 0, 0, 0, 0, 0, 0, 0, 0, 0, 0, 0, 0, 0, 0, 0, 0, 0, 0, 0, 0, 0, 0, 0, 0, 0, 1, 1, 1, 1, 1, 1, 0, 0, 0, 0, 0, 0, 0, 0, 0, 0, 0, 0, 0, 0, 0, 0, 0, 0, 0, 0, 0, 0, 0, 0, 1, 1, 1, 1, 1, 1, 1, 1, 1, 1, 1, 1, 1, 1, 1, 1, 1, 1, 1, 1, 1, 1, 1, 1, 1, 1, 1, 1, 1, 1, 1, 0, 0, 0, 0, 0, 0, 1, 1, 1, 1, 1, 1, 1, 1, 1, 1, 1, 1, 1, 1, 1, 1, 1, 1, 1, 1, 1, 1, 1, 1, 1, 1, 1, 1, 1, 1, 1, 1, 1, 1, 1, 1, 1, 1, 1, 1, 1, 1, 1, 1, 1, 1, 1, 1, 1, 1, 1};
+	private static int[] pathDataY23 = new int[] {-1, -1, -1, -1, -1, -1, -1, -1, -1, -1, -1, -1, -1, -1, -1, -1, -1, -1, -1, -1, -1, -1, -1, -1, -1, -1, -1, -1, -1, -1, -1, -1, -1, -1, -1, -1, -1, -1, -1, -1, -1, -1, -1, -1, -1, -1, -1, -1, -1, -1, -1, -1, -1, -1, -1, -1, -1, -1, -1, -1, -1, -1, -1, -1, 0, 0, 0, 0, 0, 0, 0, 0, 0, 0, 0, 0, -1, 0, 0, 0, 0, 0, 0, 0, 0, 0, 0, 0, 0, 0, 0, 0, 0, 0, 0, 0, 0, 0, 0, 0, 0, 0, 0, 0, 0, 0, 0, 0, 0, 0, 0, 0, 0, 0, 0, 0, 0, 0, 0, 0, 0, 0, 0, 0, 0, 0, 0, 0, 0, 0, 0, 0, 0, 0, 0, 1, 1, 1, 0, 0, 0, 0, 0, 0, 0, 0, 0, 0, 0, 0, 0, 0, 0, 0, 0, 0, 0, 0, 0, 0, 0, 0, 0, 0, 0, 0, 0, 0, 0, 0, 0, 0, 0, 1, 1, 0, 0, 0, 0, 0, 0, 0, 0, 0, 0, 0, 0, 0, 0, 0, 0, 0, 0, 0, 0, 0, 0, 0, 0, 0, 0, 0, 0, 0, 0, 0, 0, 0, 0, 0, 0, 0, 0, 0, 0, 0, 0, 0, 0, 0, 0, 0, 0, 0, 0, 0, 0, 0, 0, 0, 0, 0, 0, 0, 0, 0, 0, 0, 0, 0, 0, 0, 0, 0, 0, 0, 0, 0, 0, 0, 0, 0, 0, 0, 0, 0, 0, 0, 0, 0, -1, -1, -1, -1, -1, -1, -1, -1, -1, -1, -1, -1, -1, -1, -1, -1, -1, -1, -1, -1, -1, -1, -1, -1, -1, -1, -1, -1, -1, -1, -1, -1, -1, -1, -1, -1, -1, -1, -1, -1, -1, -1, -1, -1, -1, -1, -1, -1, -1, -1, -1, -1, -1, -1, -1, -1, -1, -1, -1, -1, -1, -1, -1, -1, -1, -1, -1, -1, -1, -1, -1, -1, -1, -1, -1, -1, -1, -1, -1, -1, -1, -1, -1, -1, -1, -1, -1, -1, -1, -1, -1, -1, -1, -1, -1, -1, -1, -1, -1, -1, -1, -1, -1, -1, -1, -1, -1, -1, -1, -1, -1, -1, -1, -1, -1, -1, -1, -1, -1, -1, -1, -1, -1, -1, -1, -1, -1, -1, -1, -1, -1, -1, -1, -1, -1, -1, 0, 0, 0, 0, 0, 0, 0, 0, 0, 0, 0, 0, 0, 0, 0, 0, 0, 0, 0, 0, 0, 0, 0, 0, 0, 0, 0, 0, 0, 0, 0, 0, 0, 0, 0, 0, 0, 0, 0, 0, 0, 0, 0};
+	private static int[] pathDataX24 = new int[] {0, 0, 0, 0, 0, 0, 0, 0, 0, 0, 0, 0, 0, 0, 0, 0, 0, 0, 0, 1, 1, 1, 1, 1, 1, 1, 1, 1, 1, 1, 1, 1, 1, 1, 1, 1, 1, 1, 1, 1, 0, 0, 0, 0, 0, 0, 0, 0, 0, 0, 0, 0, 0, 1, 1, 1, 1, 1, 1, 1, 1, 1, 1, 1, 1, 1, 1, 1, 1, 1, 1, 1, 1, 1, 1, 1, 1, 1, 1, 1, 1, 1, 1, 1, 1, 1, 1, 1, 1, 1, 1, 1, 1, 1, 1, 1, 1, 1, 1, 1, 1, 1, 1, 1, 1, 1, 1, 1, 1, 1, 1, 1, 1, 1, 1, 1, 1, 1, 1, 1, 1, 1, 1, 1, 1, 1, 1, 1, 1, 1, 1, 1, 1, 1, 1, 1, 1, 1, 1, 1, 1, 1, 1, 1, 1, 1, 1, 1, 1, 1, 1, 1, 1, 1, 1, 1, 1, 1, 1, 1, 1, 1, 1, 1, 1, 1, 1, 1, 1, 1, 1, 1, 1, 1, 1, 1, 1, 1, 1, 1, 1, 1, 1, 1, 1, 1, 1, 1, 1, 1, 1, 1, 1, 1, 1, 1, 1, 1, 1, 1, 1, 1, 1, 1, 1, 1, 1, 1, 1, 1, 1, 1, 1, 1, 1, 1, 1, 1, 1, 1, 1, 1, 1, 1, 1, 1, 1, 1, 1, 1, 1, 1, 1, 1, 1, 1, 1, 1, 1, 1, 1, 1, 1, 1, 1, 1, 1, 1, 1, 1, 1, 1, 1, 1, 1, 1, 1, 1, 1, 1, 1, 1, 1, 1, 1, 1, 1, 1, 1, 1, 1, 1, 1, 1, 1, 1, 1, 1, 1, 1, 1, 1, 1, 1, 1, 1, 1, 1, 1, 1, 1, 1, 1, 1, 1, 1, 1, 1, 1, 1, 1, 1, 1, 1, 1, 1, 1, 1, 1, 1, 1, 1, 1, 1, 1, 1, 1, 1, 1, 1, 1, 1, 1, 1, 1, 1, 1, 1, 1, 1, 1, 1, 1, 1, 1, 1, 1, 1 };
+	private static int[] pathDataY24 = new int[] {-1, -1, -1, -1, -1, -1, -1, -1, -1, -1, -1, -1, -1, -1, -1, -1, -1, -1, -1, -1, -1, -1, -1, -1, -1, -1, -1, -1, -1, -1, -1, -1, -1, -1, -1, -1, -1, -1, -1, -1, -1, -1, -1, -1, -1, -1, -1, -1, -1, -1, -1, -1, -1, -1, -1, -1, -1, -1, 0, 0, 0, 0, 0, 0, 0, 0, 0, 0, 0, 0, 0, 0, 0, 0, 0, 0, 0, 0, 0, 0, 0, -1, -1, -1, -1, 0, 0, 0, 0, 0, 0, 0, 0, 0, 0, 0, 0, 0, 0, 0, 0, 0, 0, 0, 0, 0, 0, 0, 0, 0, 0, 0, 1, 1, 1, 0, 0, 0, 0, 0, 0, 0, 0, 0, 0, 0, 0, 0, 0, 0, 0, 0, 0, 0, 0, 0, 0, 0, 0, 0, 0, 0, 0, 0, 0, 0, 1, 1, 0, 0, 0, 0, 0, 0, 0, 0, 0, 0, 0, 0, 0, 0, 0, 0, 0, 0, 0, 0, 0, 0, 0, 0, 0, 1, 1, 0, 0, 0, 0, 0, 0, 0, 0, 0, 0, 0, 0, 0, 0, 0, 0, 0, 0, 0, 0, 0, 0, 0, 0, 0, 0, 0, 0, 0, 0, 0, 0, 0, 0, 0, 0, 0, 0, 0, 0, 0, 0, 0, 0, 0, 0, 0, 0, 0, 0, 0, 0, 0, 0, 0, 0, 0, 0, 0, 0, 1, 1, 1, 0, 0, 0, 0, 0, 0, 0, 0, 0, 0, 0, 0, 0, 0, 0, 0, 0, 0, 0, 0, 0, 0, 0, 1, 1, 1, 0, 0, 0, 0, 0, 0, 0, 0, 0, 0, 0, 0, 0, 0, 0, 0, 0, 0, 0, 0, 0, 0, 0, 0, 0, 0, 0, 0, 0, 0, 0, 0, 0, 1, 1, 1, 1, 1, 1, 1, 1, 1, 1, 1, 1, 0, 0, 0, 0, 0, 0, 0, 0, 0, 0, 0, 0, 0, 0, 0, 0, 0, 0, 0, 0, 0, 0, 0, 0, 0, 0, 0, 0, 0};
+	private static int[] pathDataX34 = new int[] {-1, -1, -1, -1, -1, -1, -1, -1, -1, -1, -1, -1, -1, -1, -1, -1, -1, -1, -1, -1, -1, -1, -1, -1, -1, -1, -1, -1, -1, -1, -1, -1, -1, -1, -1, -1, -1, -1, -1, -1, -1, -1, -1, -1, -1, -1, -1, -1, -1, -1, -1, -1, -1, -1, -1, -1, -1, -1, -1, -1, -1, -1, -1, -1, -1, -1, -1, -1, -1, -1, -1, -1, -1, -1, 0, 0, 0, 0, 0, 0, 0, 0, 0, 0, 0, 0, 0, 0, 0, 0, 0, 0, 0, 0, 0, 0, 0, 0, 0, 0, 0, 0, 0, 0, 0, 0, 0, 0, 0, 0, 0, 0, 0, 0, 0, 0, 0, 0, 0, 0, 0, 0, 0, 0, 0, 0, 0, 0, 1, 1, 0, 0, 0, 0, 0, 0, 0, 0, 0, 0, 0, 0, 0, 0, 0, 0, 0, 0, 0, 0, 0, 0, 0, 0, 0, 0, 0, 0, 0, 0, 0, 1, 1, 1, 0, 0, 0, 0, 0, 0, 0, 0, 0, 0, 0, 0, 0, 0, 0, 0, 0, 0, 0, 0, 0, 0, 0, 0, 0, 0, 1, 1, 1, 1, 1, 1, 1, 1, 1, 1, 1, 1, 1, 1, 1, 1, 1, 1, 1, 1, 1, 1, 1, 1, 1, 1, 1, 1, 1, 1, 1};
+	private static int[] pathDataY34 = new int[] {1, 1, 1, 1, 1, 1, 1, 1, 1, 0, 0, 0, 0, 0, 0, 0, 0, 0, 0, 0, 0, 0, 0, 0, 0, 0, 0, 0, 0, 0, 0, 0, 0, 0, 1, 1, 1, 1, 1, 1, 1, 1, 1, 1, 1, 1, 1, 1, 1, 1, 1, 1, 0, 0, 0, 0, 0, 0, 0, 0, 0, 0, 0, 0, 0, 0, 1, 1, 1, 1, 1, 1, 1, 1, 1, 1, 1, 1, 1, 1, 1, 1, 1, 1, 1, 1, 1, 1, 1, 1, 1, 1, 1, 1, 1, 1, 1, 1, 1, 1, 1, 1, 1, 1, 1, 1, 1, 1, 1, 1, 1, 1, 1, 1, 1, 1, 1, 1, 1, 1, 1, 1, 1, 1, 1, 1, 1, 1, 1, 1, 1, 1, 1, 1, 1, 1, 1, 1, 1, 1, 1, 1, 1, 1, 1, 1, 1, 1, 1, 1, 1, 1, 1, 1, 1, 1, 1, 1, 1, 1, 1, 1, 1, 1, 1, 1, 1, 1, 1, 1, 1, 1, 1, 1, 1, 1, 1, 1, 1, 1, 1, 1, 1, 1, 1, 1, 1, 1, 1, 1, 1, 1, 1, 1, 1, 1, 1, 1, 0, 0, 0, 0, 0, 0, 0, 0, 0, 0, 0, 0, 0, 0, 0, 0, 0, 0, 0, 0, 0, 0, 0};
+	
 	private static ArrayList<ArrayList<int[]>> pathDataMatrixX = new ArrayList<ArrayList<int[]>>();
 	private static ArrayList<ArrayList<int[]>> pathDataMatrixY = new ArrayList<ArrayList<int[]>>();
 	
@@ -23,6 +38,10 @@ public class Path {
 		island0PathY.add(pathDataY01);
 		island0PathX.add(pathDataX02);
 		island0PathY.add(pathDataY02);
+		island0PathX.add(pathDataX03);
+		island0PathY.add(pathDataY03);
+		island0PathX.add(pathDataX04);
+		island0PathY.add(pathDataY04);
 		pathDataMatrixX.add(island0PathX);
 		pathDataMatrixY.add(island0PathY);
 		ArrayList<int[]> island1PathX = new ArrayList<int[]>();
@@ -33,6 +52,10 @@ public class Path {
 		island1PathY.add(new int[0]);
 		island1PathX.add(pathDataX12);
 		island1PathY.add(pathDataY12);
+		island1PathX.add(pathDataX13);
+		island1PathY.add(pathDataY13);
+		island1PathX.add(pathDataX14);
+		island1PathY.add(pathDataY14);
 		pathDataMatrixX.add(island1PathX);
 		pathDataMatrixY.add(island1PathY);
 		ArrayList<int[]> island2PathX = new ArrayList<int[]>();
@@ -43,8 +66,40 @@ public class Path {
 		island2PathY.add(reverse(pathDataY12));
 		island2PathX.add(new int[0]);
 		island2PathY.add(new int[0]);
+		island2PathX.add(pathDataX23);
+		island2PathY.add(pathDataY23);
+		island2PathX.add(pathDataX24);
+		island2PathY.add(pathDataY24);
 		pathDataMatrixX.add(island2PathX);
 		pathDataMatrixY.add(island2PathY);
+		ArrayList<int[]> island3PathX = new ArrayList<int[]>();
+		ArrayList<int[]> island3PathY = new ArrayList<int[]>();
+		island3PathX.add(reverse(pathDataX03));
+		island3PathY.add(reverse(pathDataY03));
+		island3PathX.add(reverse(pathDataX13));
+		island3PathY.add(reverse(pathDataY13));
+		island3PathX.add(reverse(pathDataX23));
+		island3PathY.add(reverse(pathDataY23));
+		island3PathX.add(new int[0]);
+		island3PathY.add(new int[0]);
+		island3PathX.add(pathDataX34);
+		island3PathY.add(pathDataY34);
+		pathDataMatrixX.add(island3PathX);
+		pathDataMatrixY.add(island3PathY);
+		ArrayList<int[]> island4PathX = new ArrayList<int[]>();
+		ArrayList<int[]> island4PathY = new ArrayList<int[]>();
+		island4PathX.add(reverse(pathDataX04));
+		island4PathY.add(reverse(pathDataY04));
+		island4PathX.add(reverse(pathDataX14));
+		island4PathY.add(reverse(pathDataY14));
+		island4PathX.add(reverse(pathDataX24));
+		island4PathY.add(reverse(pathDataY24));
+		island4PathX.add(reverse(pathDataX34));
+		island4PathY.add(reverse(pathDataY34));
+		island4PathX.add(new int[0]);
+		island4PathY.add(new int[0]);
+		pathDataMatrixX.add(island4PathX);
+		pathDataMatrixY.add(island4PathY);
 	}
 	
 	public static int[] reverse(int[] data) {

diff --git a/Buckaneer/src/main/GameLogic.java b/Buckaneer/src/main/GameLogic.java
@@ -66,6 +66,7 @@ public class GameLogic extends JPanel implements MouseListener, MouseMotionListe
 			//g.drawImage(t.getImage("images/path3.png"), 0, 0, this);
 			g.drawImage(shipImage, ship.x, ship.y, this);
 			Image n = t.getImage("images/daysremaining.png");
+			//g.drawImage(data.getPath34(), 0, 0, this);
 			g.drawImage(n, 900, 20, this);
 			g.drawImage(dayCounter1, 1190, 30, this);
 			g.drawImage(dayCounter2, 1220, 30, this);
@@ -113,6 +114,10 @@ public class GameLogic extends JPanel implements MouseListener, MouseMotionListe
 		case GAMEOVER:
 			g.drawImage(t.getImage("images/gameover.jpg"), 0, -20, this);
 			g.drawImage(gameOverImage, 0, 0, this);
+			ArrayList<PriceSprite> gOSprites = PriceSprite.getGameOverText();
+			for(PriceSprite sprite : gOSprites) {
+				g.drawImage(sprite.getImage(), sprite.getX(), sprite.getY(), this);
+			}
 			g.dispose();
 			break;
 		}
@@ -250,6 +255,7 @@ public class GameLogic extends JPanel implements MouseListener, MouseMotionListe
 		if (data.getIslandButton0().pressed(mouseX, mouseY)) {
 			if (targetIsland != currIsland) {
 				moved = true;
+				Ship.setEventModifier(mouseY);
 				xPath = Path.getXPath(currIsland, targetIsland);
 				yPath = Path.getYPath(currIsland, targetIsland);
 				currIsland = 0;
@@ -267,6 +273,20 @@ public class GameLogic extends JPanel implements MouseListener, MouseMotionListe
 				xPath = Path.getXPath(currIsland, targetIsland);
 				yPath = Path.getYPath(currIsland, targetIsland);
 				currIsland = 2;
+			}
+		}else if (data.getIslandButton3().pressed(mouseX, mouseY)) {
+			if (targetIsland != currIsland) {
+				moved = true;
+				xPath = Path.getXPath(currIsland, targetIsland);
+				yPath = Path.getYPath(currIsland, targetIsland);
+				currIsland = 3;
+			}
+		}else if (data.getIslandButton4().pressed(mouseX, mouseY)) {
+			if (targetIsland != currIsland) {
+				moved = true;
+				xPath = Path.getXPath(currIsland, targetIsland);
+				yPath = Path.getYPath(currIsland, targetIsland);
+				currIsland = 4;
 			}
 		}
 		if (mouseX > 1155) {
@@ -338,6 +358,10 @@ public class GameLogic extends JPanel implements MouseListener, MouseMotionListe
 				mouseOverIsland1();
 			}else if (data.getIslandButton2().pressed(mouseX, mouseY)) {
 				mouseOverIsland2();
+			}else if(data.getIslandButton3().pressed(mouseX, mouseY)) {
+				mouseOverIsland3();
+			}else if(data.getIslandButton4().pressed(mouseX, mouseY)) {
+				mouseOverIsland4();
 			}else {
 				handleMouseMoveEmpty();
 			}
@@ -360,18 +384,26 @@ public class GameLogic extends JPanel implements MouseListener, MouseMotionListe
 				currentDrawPath = data.getPath01();
 			} else if (currIsland == 2) {
 				currentDrawPath = data.getPath02();
+			} else if (currIsland == 3) {
+				currentDrawPath = data.getPath03();
+			} else if (currIsland == 4) {
+				currentDrawPath = data.getPath04();
 			}
 		}
 	}
 	
 	public void mouseOverIsland1() {
 		if (!moved) {
-		targetIsland = 1;
-		if (currIsland == 0) {
-			currentDrawPath = data.getPath01();
-		} else if (currIsland == 2) {
-			currentDrawPath = data.getPath12();
-		}
+			targetIsland = 1;
+			if (currIsland == 0) {
+				currentDrawPath = data.getPath01();
+			} else if (currIsland == 2) {
+				currentDrawPath = data.getPath12();
+			} else if(currIsland == 3) {
+				currentDrawPath = data.getPath13();
+			} else if (currIsland == 4) {
+				currentDrawPath = data.getPath14();
+			}
 		}
 	}
 	
@@ -382,6 +414,40 @@ public class GameLogic extends JPanel implements MouseListener, MouseMotionListe
 				currentDrawPath = data.getPath02();
 			} else if (currIsland == 1) {
 				currentDrawPath = data.getPath12();
+			} else if (currIsland == 3) {
+				currentDrawPath = data.getPath23();
+			} else if (currIsland == 4) {
+				currentDrawPath = data.getPath24();
+			}
+		}
+	}
+	
+	public void mouseOverIsland3() {
+		if(!moved) {
+			targetIsland = 3;
+			if(currIsland == 0) {
+				currentDrawPath = data.getPath03();
+			}else if (currIsland == 1) {
+				currentDrawPath = data.getPath13();
+			}else if (currIsland == 2) {
+				currentDrawPath = data.getPath23();
+			}else if (currIsland == 4) {
+				currentDrawPath = data.getPath34();
+			}
+		}
+	}
+	
+	public void mouseOverIsland4() {
+		if(!moved) {
+			targetIsland = 4;
+			if(currIsland == 0) {
+				currentDrawPath = data.getPath04();
+			}else if (currIsland == 1) {
+				currentDrawPath = data.getPath14();
+			}else if (currIsland == 2) {
+				currentDrawPath = data.getPath24();
+			}else if (currIsland == 3) {
+				currentDrawPath = data.getPath34();
 			}
 		}
 	}

diff --git a/Buckaneer/src/main/GameData.java b/Buckaneer/src/main/GameData.java
@@ -5,13 +5,22 @@ import java.awt.Toolkit;
 
 public class GameData {
 	private static Toolkit t = Toolkit.getDefaultToolkit();
-	private Image path01 = t.getImage("images/path1.png");
-	private Image path12 = t.getImage("images/path2.png");
-	private Image path02 = t.getImage("images/path3.png");
+	private Image path01 = t.getImage("images/paths/path01.png");
+	private Image path02 = t.getImage("images/paths/path02.png");
+	private Image path03 = t.getImage("images/paths/path03.png");
+	private Image path04 = t.getImage("images/paths/path04.png");
+	private Image path12 = t.getImage("images/paths/path12.png");
+	private Image path13 = t.getImage("images/paths/path13.png");
+	private Image path14 = t.getImage("images/paths/path14.png");
+	private Image path23 = t.getImage("images/paths/path23.png");
+	private Image path24 = t.getImage("images/paths/path24.png");
+	private Image path34 = t.getImage("images/paths/path34.png");
 	private static Image empty = t.getImage("images/empty.png");
 	private Button islandButton0 = new Button(10, 150, 370, 500);
 	private Button islandButton1 = new Button(440, 570, 290, 370);
 	private Button islandButton2 = new Button(330, 580, 500, 640);
+	private Button islandButton3 = new Button(750, 872, 290, 350);
+	private Button islandButton4 = new Button(732, 891, 444, 514);
 	private static Image pirateEventMessage1 = t.getImage("images/piratemessage.jpg");
 	private static Image pirateEventMessage2 = t.getImage("images/piratemessage2.jpg");
 	private static Image pirateEventMessage3 = t.getImage("images/piratemessage3.jpg");
@@ -27,6 +36,7 @@ public class GameData {
 	private static Image gameOverMoney = t.getImage("images/gameovernomoney.png");
 	private static Image gameOverPirates = t.getImage("images/gameoverpirates.png");
 	private static Image gameOverGood = t.getImage("images/gameovergood.png");
+	private static Image gameOverHull = t.getImage("images/gameoverhull.png");
 	private static int[][] sellingData;
 	private static int[][] buyingData;
 	
@@ -132,5 +142,45 @@ public class GameData {
 
 	public static Image getGameOverGood() {
 		return gameOverGood;
+	}
+
+	public static Image getGameOverHull() {
+		return gameOverHull;
+	}
+
+	public Image getPath03() {
+		return path03;
+	}
+
+	public Image getPath04() {
+		return path04;
+	}
+
+	public Image getPath13() {
+		return path13;
+	}
+
+	public Image getPath14() {
+		return path14;
+	}
+
+	public Image getPath23() {
+		return path23;
+	}
+
+	public Image getPath24() {
+		return path24;
+	}
+
+	public Image getPath34() {
+		return path34;
+	}
+
+	public Button getIslandButton3() {
+		return islandButton3;
+	}
+
+	public Button getIslandButton4() {
+		return islandButton4;
 	}
 }

diff --git a/Buckaneer/src/main/PriceSprite.java b/Buckaneer/src/main/PriceSprite.java
@@ -143,6 +143,46 @@ public class PriceSprite {
 		return returning;
 	}
 	
+	
+	public static ArrayList<PriceSprite> getGameOverText(){
+		ArrayList<PriceSprite> returning = new ArrayList<PriceSprite>();
+		//selected days display
+		int selectedDays = (int) Math.ceil(Ship.getSelectedDays() / 100);
+		int day1 = selectedDays % 10;
+		int day2 = (int) Math.floor(selectedDays / 10);
+		Image tempSprite = t.getImage("images/text/n" + Integer.toString(day2) + ".png");
+		returning.add(new PriceSprite(tempSprite, 230, 400));
+		tempSprite = t.getImage("images/text/n" + Integer.toString(day1) + ".png");
+		returning.add(new PriceSprite(tempSprite, 245, 400));
+		//days played
+		int daysPlayed = (int) Math.ceil((Ship.getSelectedDays() - GameLogic.getGlobalTime())/100);
+		day1 = daysPlayed % 10;
+		day2 = (int) Math.floor(daysPlayed / 10);
+		tempSprite = t.getImage("images/text/n" + Integer.toString(day2) + ".png");
+		returning.add(new PriceSprite(tempSprite, 570, 400));
+		tempSprite = t.getImage("images/text/n" + Integer.toString(day1) + ".png");
+		returning.add(new PriceSprite(tempSprite, 585, 400));
+		//profit
+		String profitString = Integer.toString(Ship.getProfit());
+		while(profitString.length() < 8) {
+			profitString = "0" + profitString;
+		}
+		for(int i=0; i<profitString.length();i++) {
+			tempSprite = t.getImage("images/text/n" + profitString.charAt(i) + ".png");
+			returning.add(new PriceSprite(tempSprite, 825 + (15 * i), 400));
+		}
+		int score = Math.min(((Ship.getSelectedDays() - GameLogic.getGlobalTime()) * 2) + Ship.getProfit(), 99999999);
+		String scoreString = Integer.toString(score);
+		while (scoreString.length() < 8) {
+			scoreString = "0" + scoreString;
+		}
+		for(int i=0;i<scoreString.length();i++) {
+			tempSprite = t.getImage("images/text/n" + scoreString.charAt(i) + ".png");
+			returning.add(new PriceSprite(tempSprite, 1050 + (15*i), 400));
+		}
+		return returning;
+	}
+	
 	public Image getImage() {
 		return sprite;
 	}

diff --git a/Buckaneer/src/main/Ship.java b/Buckaneer/src/main/Ship.java
@@ -10,6 +10,7 @@ public class Ship {
 	private static int[] inventory = new int[7];
 	private static int repairModifier = 0;
 	private static int eventChance = 2000;
+	private static int eventModifier = 0;
 	private static int selectedDays = 2000;
 	private static int fightingChance = 3;
 	private static double sellingModifier = 0;
@@ -48,7 +49,7 @@ public class Ship {
 	}
 	
 	public static int getEventChance() {
-		return eventChance;
+		return eventChance + eventModifier;
 	}
 	
 	public static int getMoney() {
@@ -76,6 +77,10 @@ public class Ship {
 	
 	public static void changeHull(int nHull) {
 		hull += nHull;
+		if (hull <= 0) {
+			GameLogic.state = State.GAMEOVER;
+			
+		}
 	}
 	
 	public static int[] moneyArray() {
@@ -189,5 +194,13 @@ public class Ship {
 
 	public static void setSellingModifier(double sellingModifier) {
 		Ship.sellingModifier = sellingModifier;
+	}
+
+	public static int getEventModifier() {
+		return eventModifier;
+	}
+
+	public static void setEventModifier(int eventModifier) {
+		Ship.eventModifier = eventModifier;
 	}
 }
